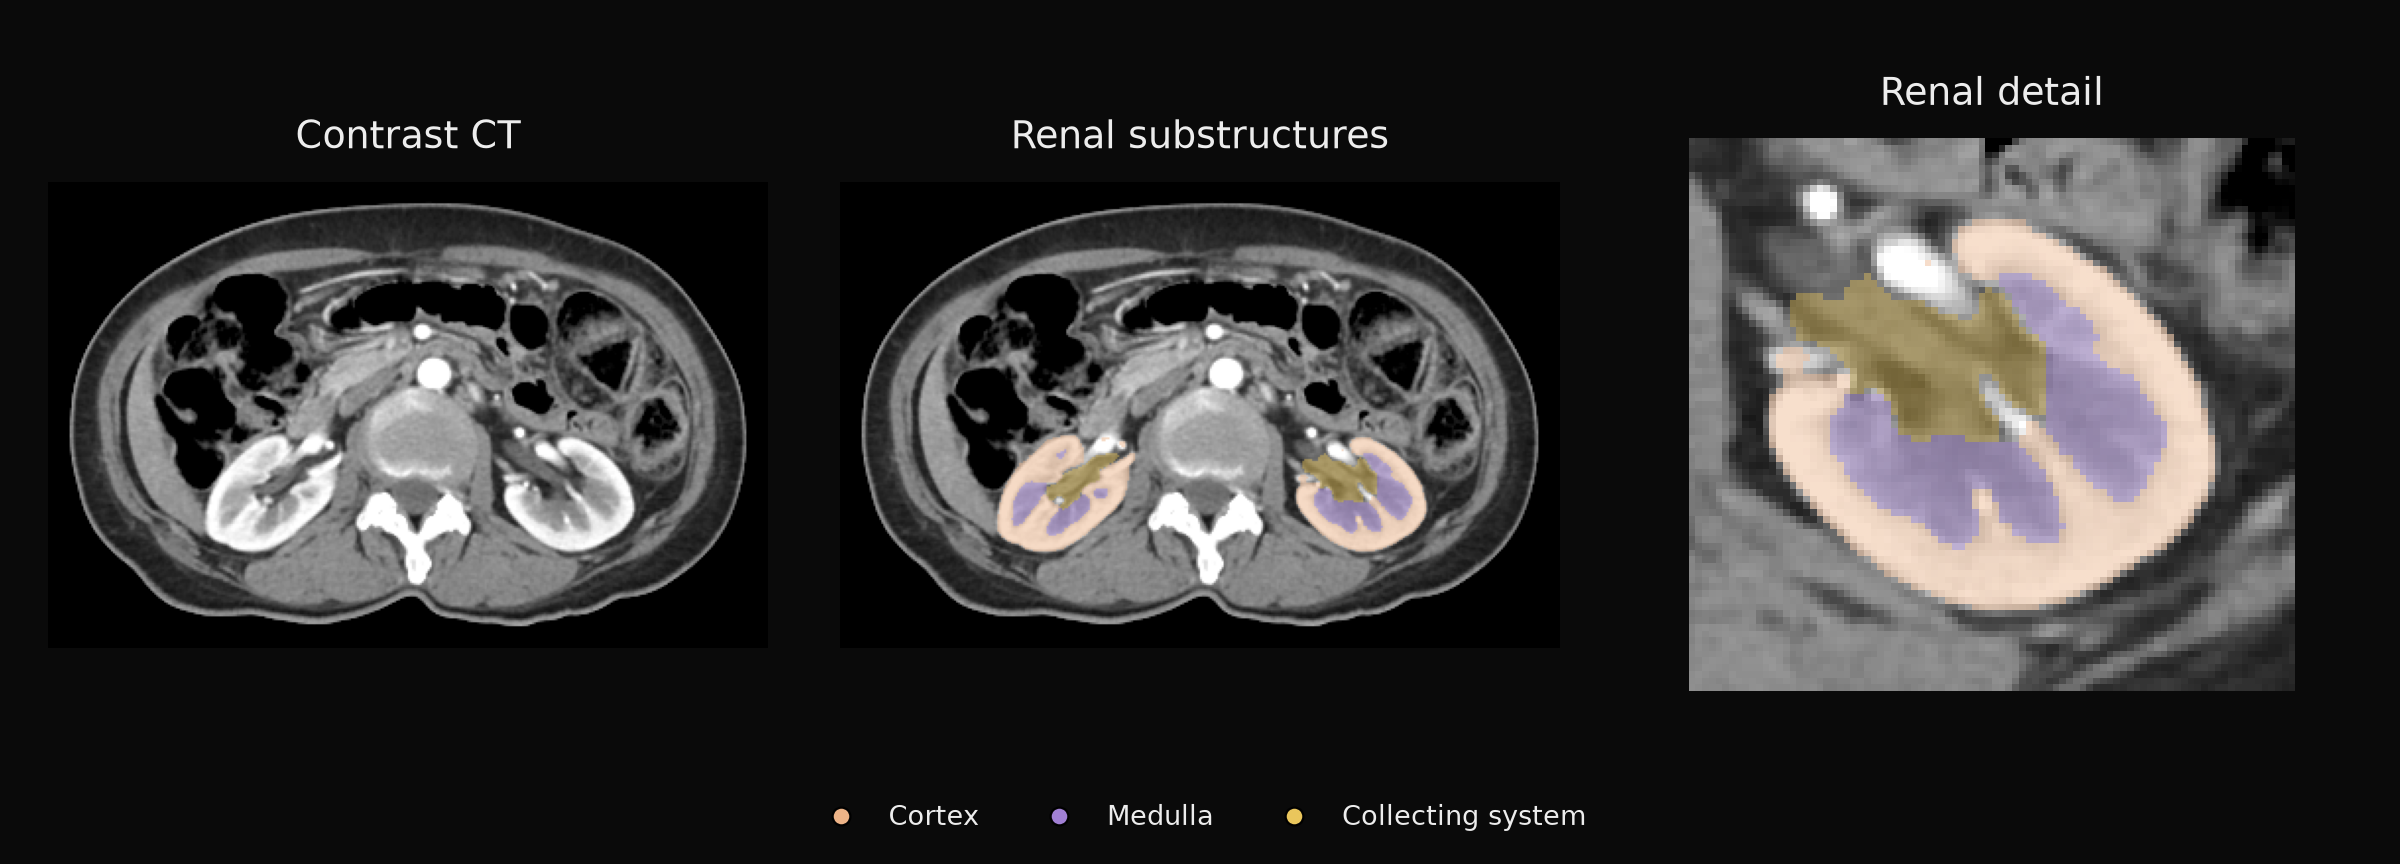
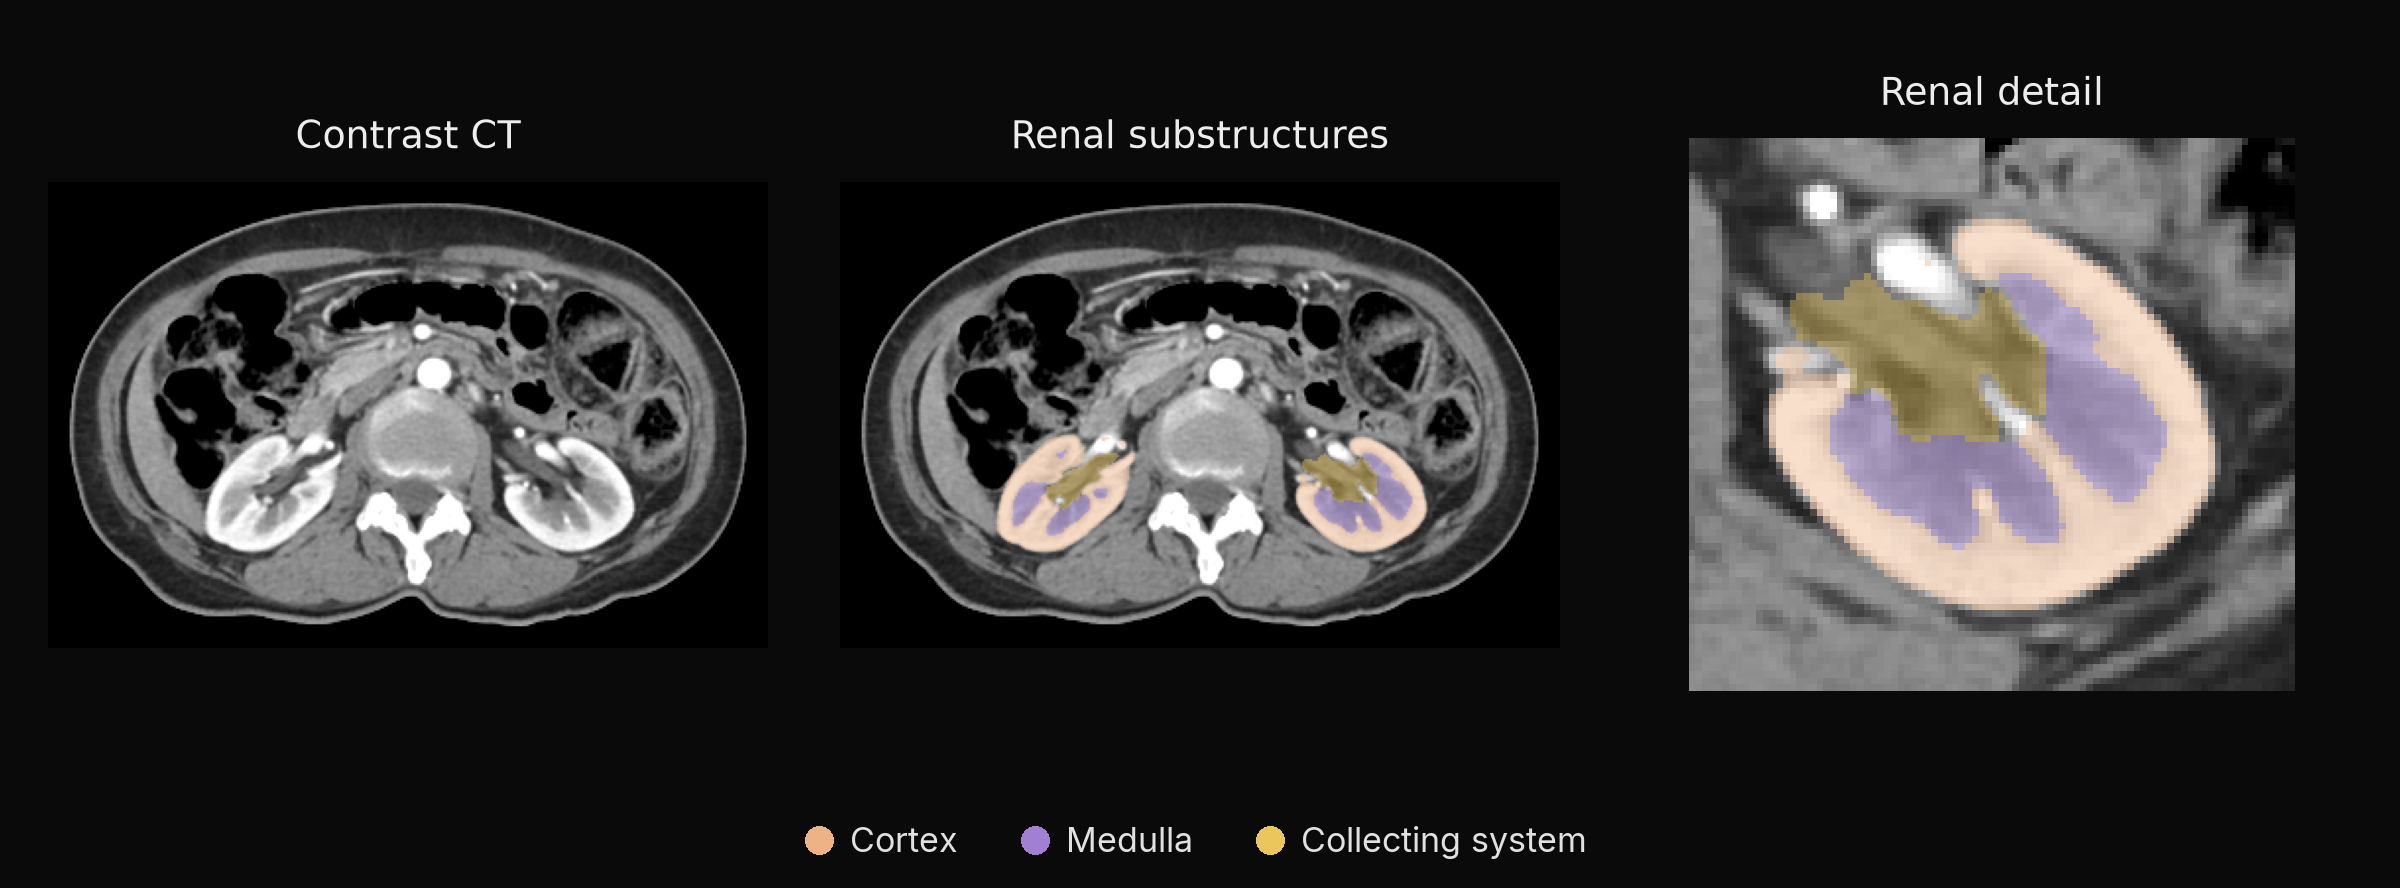
Enlarge the README image legend

diff --git a/README.md b/README.md
@@ -13,7 +13,7 @@ Segment kidney cortex, medulla and collecting system in contrast-enhanced CT wit
 
 [Model weights](https://huggingface.co/MedMLX/unest-renal-ct-mlx) · [MedMLX](https://github.com/MedMLX/medmlx)
 
-<img src="https://raw.githubusercontent.com/MedMLX/unest-mlx/v0.2.8/docs/showcase.png" alt="Contrast CT → kidney cortex, medulla and collecting system, with a detailed renal view." width="100%">
+<img src="https://raw.githubusercontent.com/MedMLX/unest-mlx/main/docs/showcase.png" alt="Contrast CT → kidney cortex, medulla and collecting system, with a detailed renal view." width="100%">
 
 *Contrast CT → kidney cortex, medulla and collecting system, with a detailed renal view.*
 
